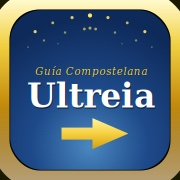
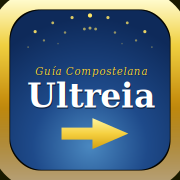
Add files via upload

diff --git a/index.html b/index.html
@@ -186,13 +186,16 @@
 
 
 
-  <!-- Panel ruta flotante lado derecho del mapa, bajo botón añadir punto -->
-  <div id='map-ruta-panel' style='display:none;position:absolute;top:98px;left:10px;z-index:400;background:rgba(0,0,0,0.72);backdrop-filter:blur(8px);border-radius:12px;padding:8px 6px;box-shadow:0 2px 16px rgba(0,0,0,0.35);flex-direction:column;align-items:center;gap:7px;font-family:DM Sans,sans-serif;font-size:11px;width:40px'>
-    <span id='ruta-bar-count' style='background:#1D9E75;color:#fff;padding:2px 4px;border-radius:8px;font-weight:700;font-size:10px;text-align:center;width:100%;display:block'>0📍</span>
-    <span id='ruta-bar-dist' style='color:#7EE8C0;font-weight:600;font-size:10px;text-align:center;line-height:1.2'>0km</span>
-    <span id='ruta-bar-time' style='color:#7EE8C0;font-weight:600;font-size:10px;text-align:center;line-height:1.2'>0m</span>
-    <button id='ruta-bar-btn-go' onclick='iniciarRuta()' title='Iniciar ruta' style='background:#1D9E75;color:#fff;border:none;padding:0;border-radius:8px;font-size:14px;font-weight:600;cursor:pointer;font-family:DM Sans,sans-serif;opacity:0.5;width:28px;height:28px;display:flex;align-items:center;justify-content:center;line-height:1'>▶</button>
-    <button id='ruta-bar-btn-clear' onclick='limpiarRuta()' title='Limpiar ruta' style='background:rgba(220,38,38,0.15);border:1px solid #fca5a5;color:#dc2626;padding:0;border-radius:8px;font-size:14px;cursor:pointer;font-family:DM Sans,sans-serif;opacity:0.5;width:28px;height:28px;display:flex;align-items:center;justify-content:center;line-height:1'>🗑</button>
+  <!-- Panel ruta flotante esquina inferior derecha del mapa -->
+  <div id='map-ruta-panel' style='display:none;position:absolute;top:98px;left:10px;z-index:400;background:rgba(0,0,0,0.72);backdrop-filter:blur(8px);border-radius:10px;padding:8px 10px;box-shadow:0 2px 16px rgba(0,0,0,0.35);flex-direction:column;align-items:flex-start;gap:5px;font-family:DM Sans,sans-serif;font-size:12px;min-width:80px'>
+    <span style='font-weight:700;color:rgba(255,255,255,0.9);font-size:11px;letter-spacing:0.5px'>RUTA</span>
+    <span id='ruta-bar-count' style='background:#1D9E75;color:#fff;padding:2px 8px;border-radius:10px;font-weight:700;font-size:11px'>0 📍</span>
+    <span id='ruta-bar-dist' style='color:#7EE8C0;font-weight:600;font-size:11px'>0 km</span>
+    <span id='ruta-bar-time' style='color:#7EE8C0;font-weight:600;font-size:11px'>0 min</span>
+    <div style='display:flex;gap:4px;margin-top:2px'>
+      <button onclick='iniciarRuta()' id='ruta-bar-btn-go' style='background:#1D9E75;color:#fff;border:none;padding:5px 10px;border-radius:10px;font-size:11px;font-weight:600;cursor:pointer;font-family:DM Sans,sans-serif;opacity:0.5'>▶ Ir</button>
+      <button onclick='limpiarRuta()' id='ruta-bar-btn-clear' style='background:none;border:1px solid #fca5a5;color:#dc2626;padding:5px 8px;border-radius:10px;font-size:11px;cursor:pointer;font-family:DM Sans,sans-serif;opacity:0.5'>🗑</button>
+    </div>
   </div>
   <!-- IDs ocultos para compatibilidad con JS existente -->
   <span id='ruta-bar-empty' style='display:none'></span>
@@ -2430,7 +2433,7 @@ function initMapa() {
     b=document.getElementById('btn-refresh-loc'); if(b) b.style.display='flex';
     b=document.getElementById('btn-orientacion-mapa'); if(b) b.style.display='flex';
     // Solo mostrar panel si hay puntos en ruta
-    b=document.getElementById('map-ruta-panel'); if(b&&rutaPuntos.length>0) b.style.display='flex';
+    b=document.getElementById('map-ruta-panel'); if(b&&rutaPuntos.length>0){b.style.display='flex';b.style.flexDirection='column';}
   });
   // Cerrar popup al arrastrar o hacer scroll en el mapa
   mapa.on('dragstart', function() { mapa.closePopup(); });
@@ -3208,22 +3211,18 @@ function actualizarRuta() {
   var puntEl = document.getElementById('ruta-bar-puntos');
   var btnGo  = document.getElementById('ruta-bar-btn-go');
   var btnClr = document.getElementById('ruta-bar-btn-clear');
-
-  // Mostrar u ocultar el panel flotante del mapa
-  if (panel) {
-    panel.style.display = rutaPuntos.length > 0 ? 'flex' : 'none';
-  }
+  if (!empty) return;
 
   if (rutaPuntos.length === 0) {
-    if(empty) empty.style.display = '';
-    if(info)  info.style.display  = 'none';
-    if(btnGo){btnGo.style.opacity='0.55'; btnGo.style.cursor='default';}
+    empty.style.display = '';
+    info.style.display  = 'none';
+    btnGo.style.opacity='0.55'; btnGo.style.cursor='default';
     if(btnClr){btnClr.style.opacity='0.55'; btnClr.style.cursor='default';}
     var btnMapaPoi2=document.getElementById('poi-ruta-btn-mapa');if(btnMapaPoi2)btnMapaPoi2.style.opacity='0.4';
     actualizarBotonesRuta(); return;
   }
-  if(empty) empty.style.display = 'none';
-  if(info)  info.style.display  = 'flex';
+  empty.style.display = 'none';
+  info.style.display  = 'flex';
 
   var distTotal = 0;
   // Si tenemos ubicación del usuario, añadir distancia hasta el primer punto

diff --git a/sw.js b/sw.js
@@ -1,4 +1,4 @@
-const CACHE_NAME = 'guia-compostelana-v193';
+const CACHE_NAME = 'guia-compostelana-v195';
 const TILE_CACHE = 'guia-tiles-v1';
 const IMG_CACHE  = 'guia-imgs-v1';
 